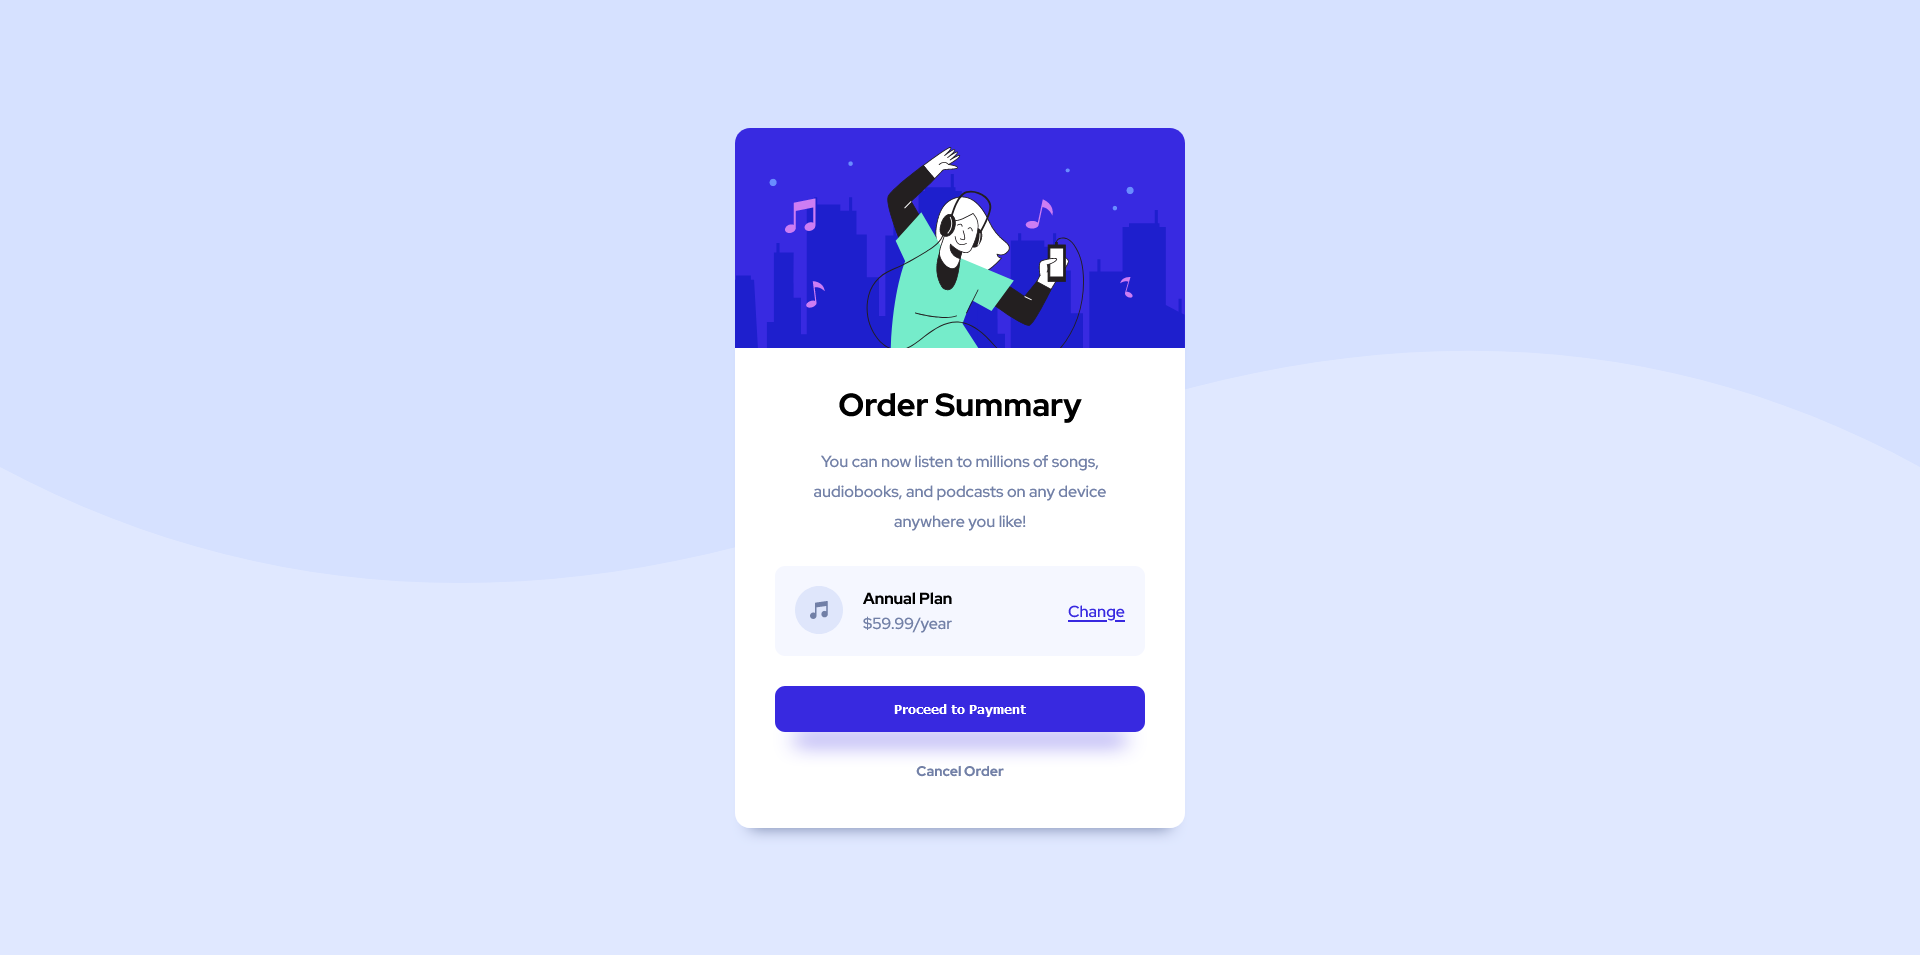
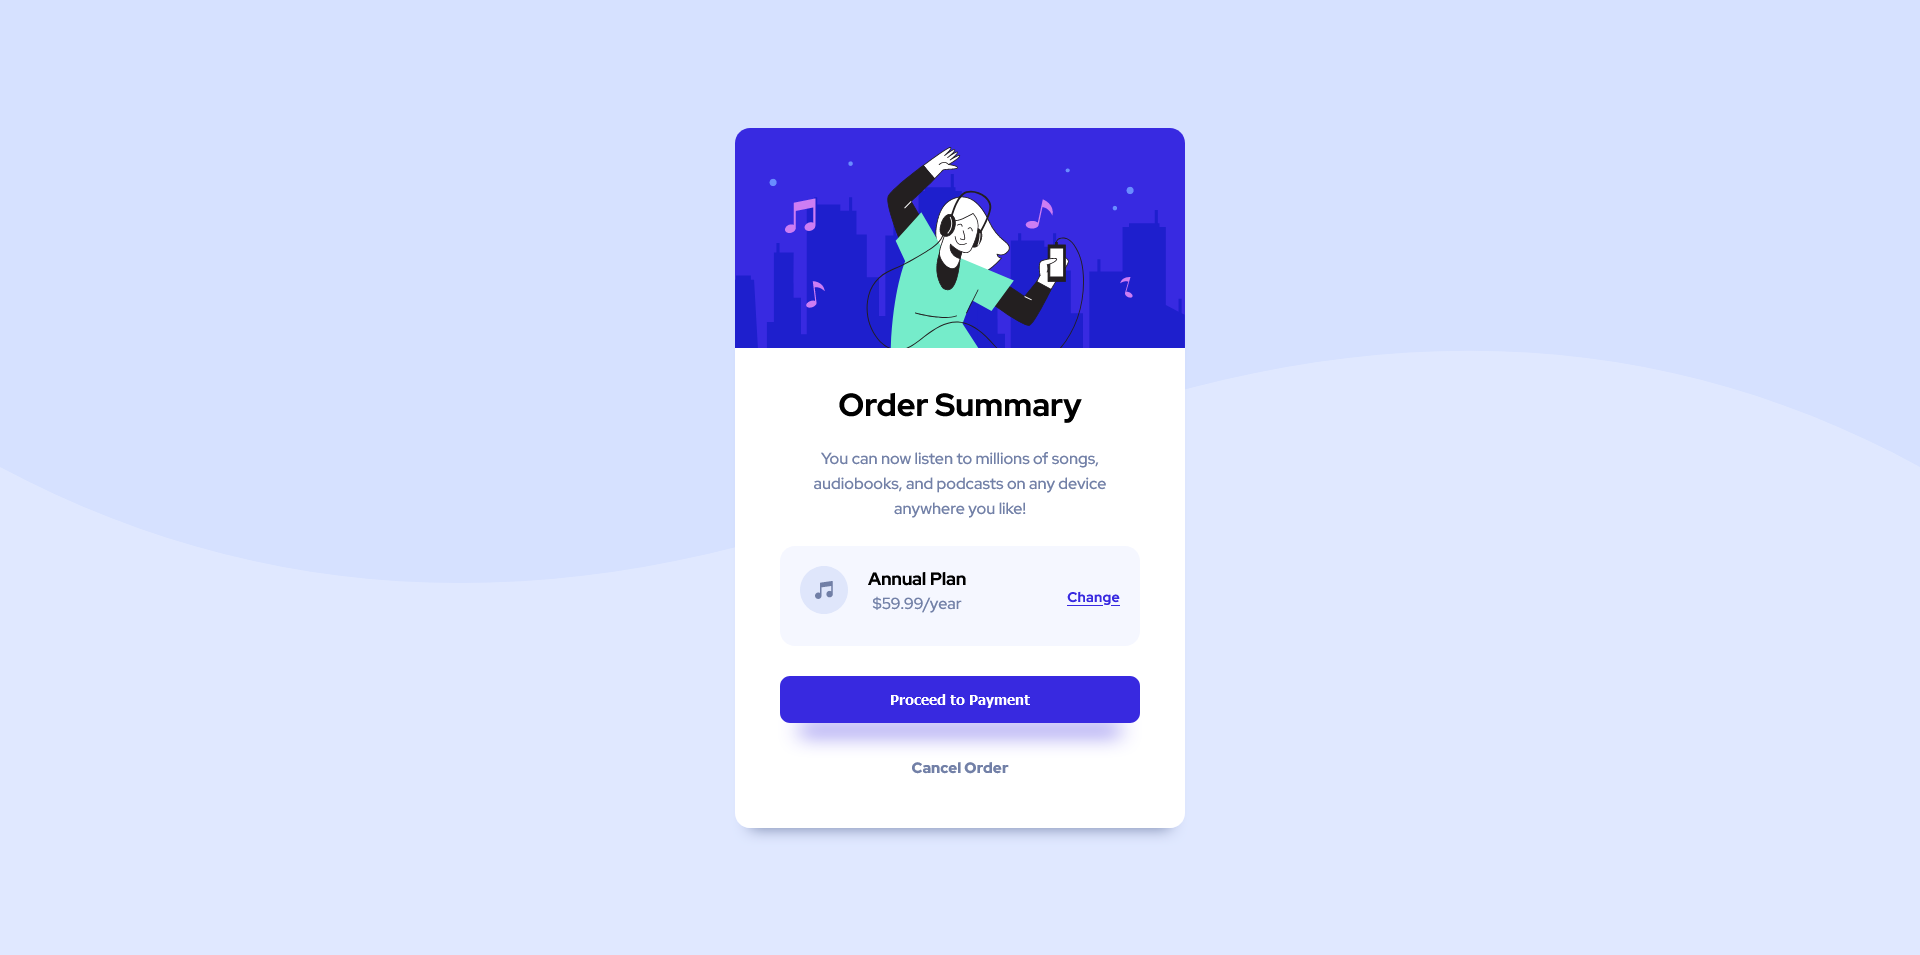
update html and css files to suit the requirements

Changed region(s): [[0.4062, 0.4555, 0.5938, 0.6681], [0.4062, 0.6984, 0.5938, 0.8199], [0.5625, 0.6073, 0.5938, 0.6681]]

diff --git a/style.css b/style.css
@@ -5,36 +5,38 @@
   padding: 0;
 }
 
+:root {
+  --PaleBlue: hsl(225, 100%, 94%);
+  --BrightBlue: hsl(245, 75%, 52%);
+  --VeryPaleBlue: hsl(225, 100%, 98%);
+  --DesaturatedBlue: hsl(224, 23%, 55%);
+  --DarkBlue: hsl(223, 47%, 23%);
+}
+
+
 body {
-  font-family: 'Red Hat Display', sans-serif;
-  background-color: hsl(225, 100%, 94%);
+  background-color: var(--PaleBlue);
   background-image: url(./images/pattern-background-desktop.svg);
   background-size: cover;
   background-repeat: no-repeat;
-
-}
-
-@media (max-width:375px) {
-  body {
-    background-image: url(./images/pattern-background-mobile.svg);
-  }
+  font-family: 'Red Hat Display', sans-serif;
+  font-size: 16px;
 }
 
 .mainbox {
-  border-radius: 15px;
-  width: 450px;
-  min-height: 650px;
   position: absolute;
+  width: 450px;
   left: 50%;
   top: 50%;
   transform: translate(-50%, -50%);
+  border-radius: 15px;
   background-color: white;
   text-align: center;
-  box-shadow: 0 15px 15px -15px hsl(224, 23%, 55%);
+  box-shadow: 0 15px 15px -15px var(--DesaturatedBlue);
 }
 
 .box {
-  margin: 25px 40px;
+  margin: 30px 45px 50px;
 }
 
 main>img {
@@ -45,19 +47,19 @@ main>img {
 
 .text {
   margin-top: 20px;
-  color: hsl(224, 23%, 55%);
   padding: 0 20px;
   line-height: 25px;
+  color: var(--DesaturatedBlue);
 }
 
 .small-box {
   float: left;
   width: 100%;
   box-sizing: border-box;
-  margin: 25px 0;
+  margin: 25px 0 30px;
   padding: 20px;
-  border-radius: 10px;
-  background-color: hsl(225, 100%, 98%);
+  border-radius: 15px;
+  background-color: var(--VeryPaleBlue);
 }
 
 .small-box img {
@@ -72,23 +74,27 @@ main>img {
 
 .plan {
   color: black;
+  font-size: 1.1rem;
   font-weight: 700;
 }
 
 .price {
-  color: hsl(224, 23%, 55%);
+  color: var(--DesaturatedBlue);
+  font-size: 1rem;
+  font-weight: 400;
 }
 
 .change {
   float: right;
-  color: hsl(245, 75%, 52%);
-  line-height: 50px;
-  font-size: 16px;
+  color: var(--BrightBlue);
+  line-height: 60px;
+  font-size: 0.9rem;
+  font-weight: 700;
 }
 
 .change:hover {
   text-decoration: none;
-  color: hsl(224, 23%, 55%);
+  color: darkorchid;
 }
 
 button {
@@ -96,32 +102,37 @@ button {
   border: none;
   border-radius: 10px;
   padding: 15px 0;
-  background-color: hsl(245, 75%, 52%);
-  box-shadow: 0 30px 20px -20px hsl(245, 75%, 52%);
+  background-color: var(--BrightBlue);
+  box-shadow: 0 30px 20px -20px var(--BrightBlue);
   color: white;
   font-weight: 900;
+  font-size: 0.90rem;
   cursor: pointer;
   transition: 0.5s;
 }
 
 button:hover {
-  background-color: hsl(224, 23%, 55%);
+  background-color: darkorchid;
 }
 
 .cancel {
   display: block;
-  margin: 30px;
+  margin: 35px 0 0;
   color: hsl(224, 23%, 55%);
-  font-weight: 700;
-  font-size: 14px;
+  font-weight: 900;
+  font-size: 0.95rem;
   text-decoration: none;
 }
 
 .cancel:hover {
-  color: hsl(223, 47%, 23%)
+  color: var(--DarkBlue);
 }
 
 @media(max-width:375px) {
+  body {
+    background-image: url(./images/pattern-background-mobile.svg);
+  }
+
   .mainbox {
     width: 90%;
     min-height: 600px;
